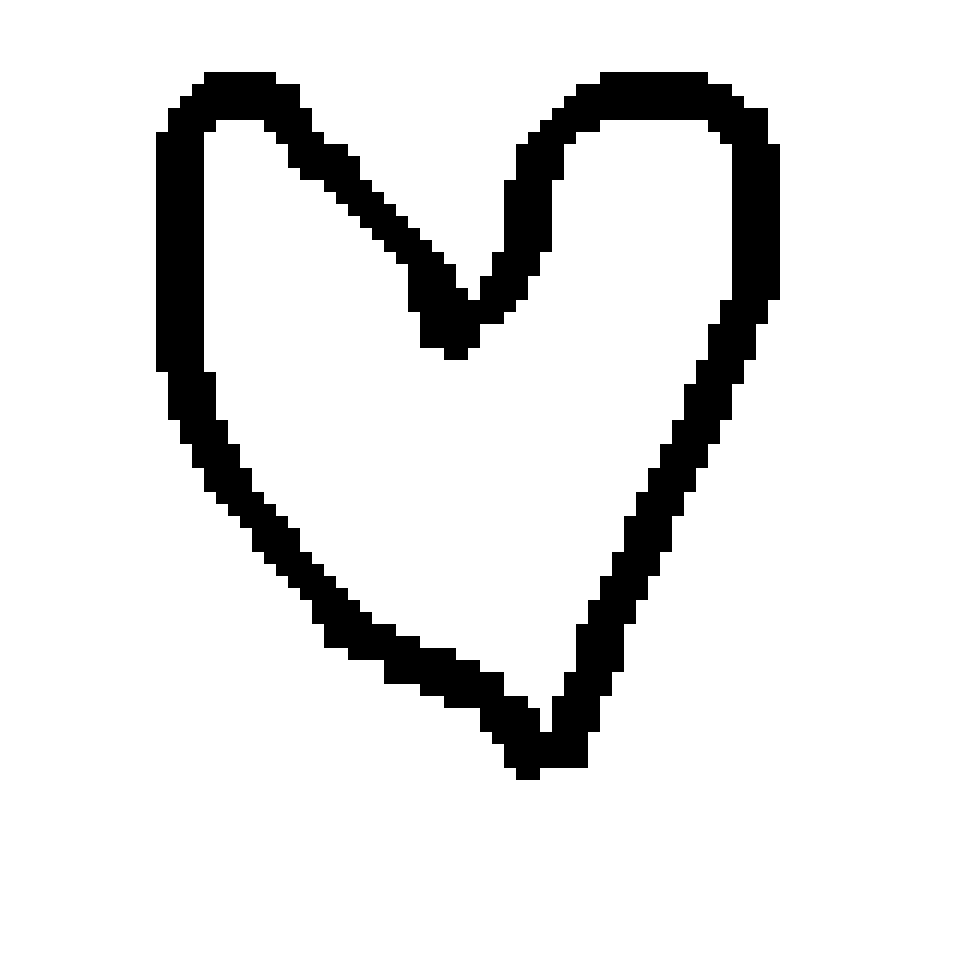
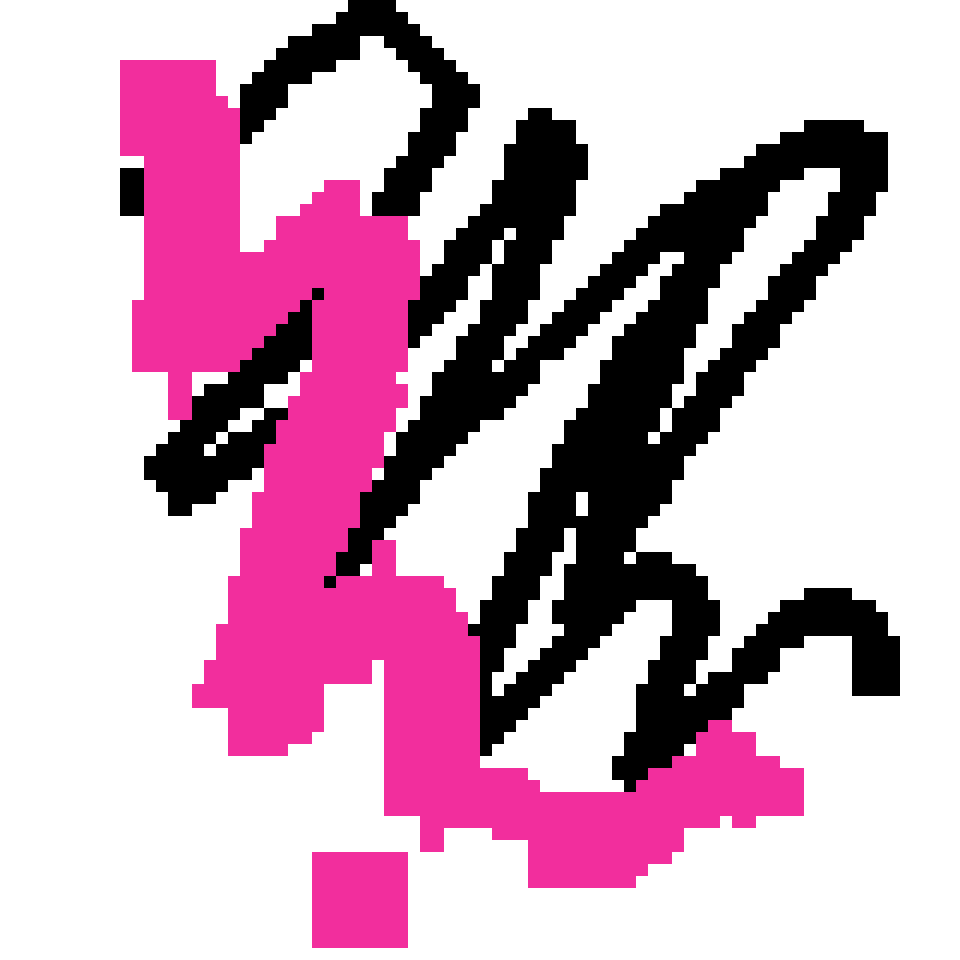
Add some minor changes

diff --git a/boat-racing/src/main.py b/boat-racing/src/main.py
@@ -22,7 +22,7 @@ def draw_hud(surface, font, timer_font, score_font, players, elapsed, scores, ta
     timer_label = timer_font.render(timer_text, True, (230, 230, 230))
     surface.blit(timer_label, (12, y + 6))
 
-    score_text = f"Score {scores['You']}-{scores['AI']} (first to {target_wins})"
+    score_text = f"Score {scores['You']}-{scores['AI']} (Best of {target_wins})"
     score_label = score_font.render(score_text, True, (230, 230, 230))
     surface.blit(score_label, (surface.get_width() -
                  score_label.get_width() - 12, 8))
@@ -75,10 +75,24 @@ def draw_player_indicator(surface, font, boat):
     surface.blit(label, (center[0] - label.get_width() // 2, center[1] - 60))
 
 
+def scale_logo(logo_surface, max_width):
+    if logo_surface is None:
+        return None
+    width = logo_surface.get_width()
+    height = logo_surface.get_height()
+    if width <= 0 or height <= 0:
+        return None
+    scale = min(1.0, max_width / width)
+    target_size = (int(width * scale), int(height * scale))
+    if target_size[0] <= 0 or target_size[1] <= 0:
+        return None
+    return pygame.transform.smoothscale(logo_surface, target_size)
+
+
 def main():
     pygame.init()
     pygame.mixer.init()
-    pygame.display.set_caption("Boat Racing")
+    pygame.display.set_caption("Mission Impaddle - Boat Racing")
 
     music_path = os.path.abspath(
         os.path.join(os.path.dirname(__file__), "..", "assets", "sounds", "bg.mp3")
@@ -90,6 +104,17 @@ def main():
     width, height = display_info.current_w, display_info.current_h
     screen = pygame.display.set_mode((width, height), pygame.FULLSCREEN)
     clock = pygame.time.Clock()
+
+    logo_path = os.path.abspath(
+        os.path.join(os.path.dirname(__file__), "..", "assets", "images", "logo.png")
+    )
+    logo_original = None
+    if os.path.exists(logo_path):
+        try:
+            logo_original = pygame.image.load(logo_path).convert_alpha()
+        except pygame.error:
+            logo_original = None
+    logo_surface = scale_logo(logo_original, min(520, int(width * 0.45)))
 
     track = Track(width, height)
     boat1 = Boat(track.start_positions[0], (230, 80, 70), name="You")
@@ -250,6 +275,7 @@ def main():
                 screen = pygame.display.set_mode(
                     (width, height), pygame.RESIZABLE)
                 track = Track(width, height)
+                logo_surface = scale_logo(logo_original, min(520, int(width * 0.45)))
 
         keys = pygame.key.get_pressed()
         if keys[pygame.K_ESCAPE]:
@@ -297,18 +323,20 @@ def main():
                     settings_button.collidepoint(mouse_pos))
 
         if state == "menu":
-            draw_overlay(screen, title_font, button_font,
-                         "Boat Racing", menu_buttons, mouse_pos)
-            menu_lines = [
-                "Press A/D or Left/Right to paddle.",
-                    "Tap alternating keys to build speed.",
-                    "Reach the finish line before the AI.",
-                    "Space/Enter to start. R restarts a round.",
-            ]
-            draw_menu_instructions(screen, font, menu_lines)
+            draw_overlay(screen, title_font, button_font, "", menu_buttons, mouse_pos)
+            if logo_surface is not None:
+                screen.blit(
+                    logo_surface,
+                    (width // 2 - logo_surface.get_width() // 2, 36),
+                )
         elif state == "settings":
             draw_overlay(screen, title_font, button_font,
                          "Settings", settings_buttons, mouse_pos)
+            if logo_surface is not None:
+                screen.blit(
+                    logo_surface,
+                    (width // 2 - logo_surface.get_width() // 2, 36),
+                )
         elif state == "countdown":
             remaining = max(0, countdown_seconds - \
                             (pygame.time.get_ticks() - countdown_start) / 1000.0)
@@ -321,10 +349,20 @@ def main():
         elif state == "round_over":
             draw_overlay(screen, title_font, button_font,
                          result_message, round_over_buttons, mouse_pos)
+            if logo_surface is not None:
+                screen.blit(
+                    logo_surface,
+                    (width // 2 - logo_surface.get_width() // 2, 36),
+                )
         elif state == "match_over":
             final_message = "You win the match!" if scores["You"] >= win_target else "You lose the match!"
             draw_overlay(screen, title_font, button_font,
                          final_message, result_buttons, mouse_pos)
+            if logo_surface is not None:
+                screen.blit(
+                    logo_surface,
+                    (width // 2 - logo_surface.get_width() // 2, 36),
+                )
 
         pygame.display.flip()
 

diff --git a/drawing-and-paint-app/src/main.py b/drawing-and-paint-app/src/main.py
@@ -31,6 +31,8 @@ APP_DIR = os.path.normpath(os.path.join(os.path.dirname(__file__), ".."))
 ASSETS_DIR = os.path.join(APP_DIR, "assets")
 SAVE_DIR = os.path.join(ASSETS_DIR, "saved")
 FONT_PATH = os.path.join(ASSETS_DIR, "font", "Stardew Valley ALL CAPS.ttf")
+LOGO_PATH = os.path.join(ASSETS_DIR, "logo.jpeg")
+LOGO_MAX_WIDTH = SIDEBAR_WIDTH
 
 
 def load_font(path: str, size: int) -> pygame.font.Font:
@@ -42,7 +44,7 @@ def load_font(path: str, size: int) -> pygame.font.Font:
 
 def init_pygame() -> Tuple[pygame.Surface, pygame.time.Clock, pygame.font.Font, pygame.font.Font]:
     pygame.init()
-    pygame.display.set_caption("Etch a Sketch")
+    pygame.display.set_caption("Ateliera - Drawing and Painting App")
     screen = pygame.display.set_mode(WINDOW_SIZE, pygame.RESIZABLE)
     clock = pygame.time.Clock()
     font = pygame.font.SysFont("DejaVu Sans", 16)
@@ -193,6 +195,7 @@ def main() -> None:
     init_background_music(assets_dir)
     bg_path = os.path.join(assets_dir, "bg.jpeg")
     brush_path = os.path.join(assets_dir, "brushes", "paintbrush.png")
+    logo_path = LOGO_PATH
     try:
         bg_source = pygame.image.load(bg_path).convert()
         bg_image = pygame.transform.smoothscale(bg_source, window_size)
@@ -207,6 +210,15 @@ def main() -> None:
         pygame.mouse.set_visible(False)
     except Exception:
         brush_image = None
+    try:
+        logo_source = pygame.image.load(logo_path).convert()
+        source_width, source_height = logo_source.get_size()
+        scale_width = max(1, LOGO_MAX_WIDTH)
+        scale_height = max(1, int(scale_width * (source_height / source_width)))
+        logo_image = pygame.transform.smoothscale(
+            logo_source, (scale_width, scale_height))
+    except Exception:
+        logo_image = None
 
     pen_pos = (GRID_SIZE // 2, GRID_SIZE // 2)
     shake_frames = 0
@@ -593,8 +605,12 @@ def main() -> None:
             knobs,
             info,
             overlay_rect,
-            "BUTIAL",
+            None,
         )
+
+        if logo_image:
+            logo_rect = logo_image.get_rect(topleft=(0, 0))
+            screen.blit(logo_image, logo_rect)
 
         brush_label = f"Brush Size: {tool_state.thickness}"
         label_surface = large_font.render(brush_label, True, (0, 0, 0))